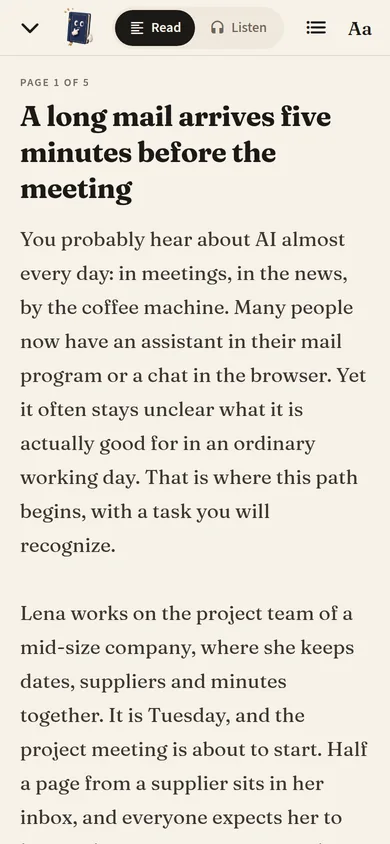
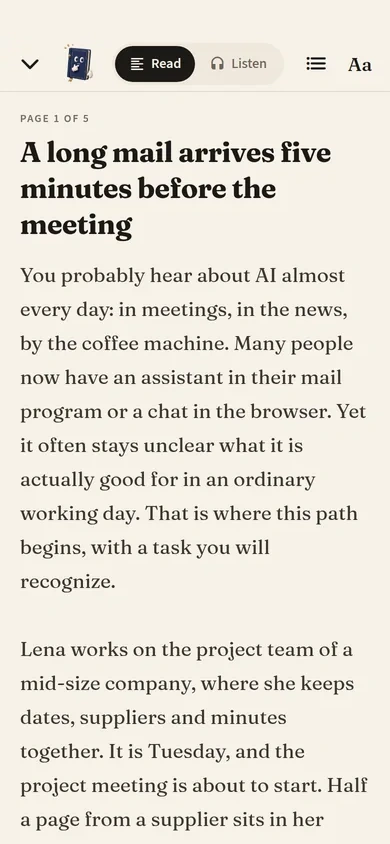
Inset the reader screens so the island clears the header.
The lesson shots started above the other screens, so the notch covered Read/Listen and the book. They now start just below it, and the quiz crop moves with that gap.

diff --git a/docs/index.html b/docs/index.html
@@ -232,7 +232,7 @@
         </figure>
         <figure class="phone" data-story="quiz">
           <div class="phone-bezel">
-            <div class="phone-screen is-crop" style="--mask: 68.5%; --mask-bottom: 0%">
+            <div class="phone-screen is-crop" style="--mask: 73%; --mask-bottom: 0%">
               <img class="phone-shot" src="assets/screens/en/reader-780.webp" srcset="assets/screens/en/reader-390.webp 390w, assets/screens/en/reader-780.webp 780w" sizes="(min-width: 1100px) 11rem, 62vw" alt="The opening of a lesson in AILA, through the first paragraph about an ordinary working day." width="780" height="1688" loading="lazy" decoding="async">
               <span class="phone-island" aria-hidden="true"></span>
             </div>

diff --git a/docs/de/index.html b/docs/de/index.html
@@ -232,7 +232,7 @@
         </figure>
         <figure class="phone" data-story="quiz">
           <div class="phone-bezel">
-            <div class="phone-screen is-crop" style="--mask: 68.5%; --mask-bottom: 0%">
+            <div class="phone-screen is-crop" style="--mask: 73%; --mask-bottom: 0%">
               <img class="phone-shot" src="../assets/screens/de/reader-780.webp" srcset="../assets/screens/de/reader-390.webp 390w, ../assets/screens/de/reader-780.webp 780w" sizes="(min-width: 1100px) 11rem, 62vw" alt="Der Anfang einer Lektion in AILA, bis zum ersten Absatz über den Arbeitsalltag." width="780" height="1688" loading="lazy" decoding="async">
               <span class="phone-island" aria-hidden="true"></span>
             </div>
